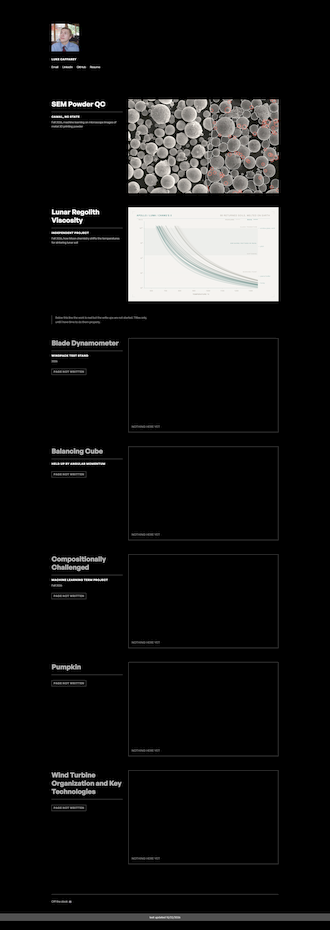
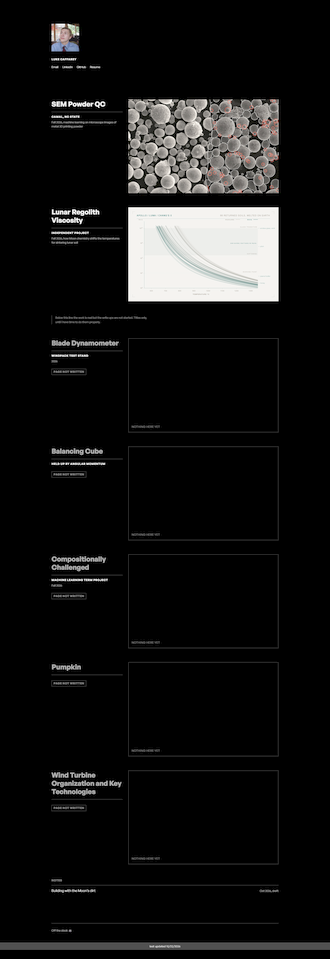
Add notes: a map of a lunar regolith factory, must haves vs nice to haves
Dig, sort, check, heat, shape, inspect, plus what cuts across all of them. Each
stage says what sets its requirements, and one checkbox strips the list to the
must haves, so it ships no script. Grounded in the two ML projects and the
Stapperfend cooling discussion; marked as draft notes. Listed under a new Notes
heading at the bottom of the index, and linked from the viscosity page.

diff --git a/notes/lunar-manufacturing.html b/notes/lunar-manufacturing.html
@@ -1,0 +1,231 @@
+<!DOCTYPE html>
+<html lang="en">
+<head>
+<meta charset="UTF-8">
+<meta name="viewport" content="width=device-width, initial-scale=1">
+<title>Building with the Moon&#8217;s dirt | Luke Caffarey</title>
+<meta name="description" content="A map of what a lunar regolith manufacturing system needs, what it can skip, and where my powder and viscosity projects plug in. Draft notes.">
+<meta name="theme-color" content="#000000">
+<link rel="icon" href="/assets/img/avatar-icon.png">
+
+<meta property="og:title" content="Building with the Moon's dirt, by Luke Caffarey">
+<meta property="og:description" content="Dig, sort, check, heat, shape, inspect. What a lunar regolith factory must have, what is nice to have, and what sets each requirement.">
+<meta property="og:type" content="article">
+<meta property="og:url" content="https://lacaffar.github.io/notes/lunar-manufacturing.html">
+<meta property="og:image" content="https://lacaffar.github.io/assets/covers/lunar-viscosity.jpg">
+<meta name="twitter:card" content="summary_large_image">
+<link rel="canonical" href="https://lacaffar.github.io/notes/lunar-manufacturing.html">
+
+<link rel="preconnect" href="https://api.fontshare.com">
+<link rel="stylesheet" href="https://api.fontshare.com/v2/css?f%5B%5D=general-sans@400,500,600,700&display=swap">
+<link rel="stylesheet" href="/assets/css/site.css">
+</head>
+<body>
+
+<nav class="back"><div class="col"><a href="/">&#8592; Index</a></div></nav>
+
+<header class="case-head">
+  <div class="col">
+    <p><span class="wip">Draft notes</span></p>
+    <h1>Building with the Moon&#8217;s dirt</h1>
+    <dl class="case-facts">
+      <div><dt>Type</dt><dd>Notes</dd></div>
+      <div><dt>Written</dt><dd>Oct 2026</dd></div>
+      <div><dt>Builds on</dt><dd>SEM Powder QC, Lunar Regolith Viscosity</dd></div>
+    </dl>
+  </div>
+</header>
+
+<main class="case-body">
+  <div class="col">
+
+    <section>
+      <p>Launching mass to the Moon is the expensive part, so the case for building with lunar
+      soil is simple: the feedstock is already there. The hard part is everything between a
+      scoop of dirt and a part you would trust to hold something up.</p>
+      <p>This is my map of that chain. I came at it from two ends this semester: how you check
+      powder quality from images (<a href="/projects/sem-powder.html">SEM Powder QC</a>), and how
+      the Moon&#8217;s chemistry moves the temperatures you process regolith at
+      (<a href="/projects/lunar-viscosity.html">Lunar Regolith Viscosity</a>). The rest is me
+      thinking out loud, so treat it as notes, not a design.</p>
+    </section>
+
+    <section>
+      <h2>What is different up there</h2>
+      <div class="fix">
+        <div class="fix-item">
+          <div class="fix-when">Vacuum</div>
+          <p>No air means no convection. A hot part loses heat only by radiation, which is fast
+          when it is glowing and slow once it cools. Anything printed from melt cools on a very
+          different curve than it would on Earth.</p>
+        </div>
+        <div class="fix-item">
+          <div class="fix-when">No oxygen</div>
+          <p>Iron stays in its reduced Fe<sup>2+</sup> form. Most melt data comes from simulants
+          melted in air, where about 60% of the iron is oxidized. Near the glass transition that
+          moves processing temperatures by 5 to 32 K for iron rich soils.</p>
+        </div>
+        <div class="fix-item">
+          <div class="fix-when">Dust</div>
+          <p>Regolith is fine, sharp and abrasive. It gets into seals, bearings and anything that
+          slides, and there is no rain to wash it off.</p>
+        </div>
+        <div class="fix-item">
+          <div class="fix-when">Long days</div>
+          <p>Away from the poles, daylight and darkness each last about two Earth weeks. Power and
+          thermal design have to survive both.</p>
+        </div>
+        <div class="fix-item">
+          <div class="fix-when">Distance</div>
+          <p>A signal takes about 2.6 seconds to get to the Moon and back. You can steer from Earth,
+          slowly, but nobody is walking over to clear a jam.</p>
+        </div>
+        <div class="fix-item">
+          <div class="fix-when">Site matters</div>
+          <p>Mare soils average about 17% FeO, highland soils about 6%. Across 66 returned soils
+          that is well over 100 degrees difference in the temperature to reach the same
+          viscosity. Where you land decides how hot you have to run.</p>
+        </div>
+      </div>
+    </section>
+
+    <section>
+      <h2>The chain, stage by stage</h2>
+      <p>Six stages. For each one, what sets the requirement, what a first factory
+      <strong>must</strong> have, and what is <strong>nice to have</strong> once the first one
+      works. Flip the switch to see the bare minimum.</p>
+
+      <input class="lean-input" type="checkbox" id="lean">
+      <label class="lean" for="lean">
+        <span class="lean-off">Showing everything.</span>
+        <span class="lean-on">Showing must haves only.</span>
+        <span class="lean-act">Strip it to the minimum</span>
+        <span class="lean-act2">Show everything again</span>
+      </label>
+      <p class="lean-key"><span class="k-must">must have</span><span class="k-nice">nice to have</span></p>
+
+      <div class="stages">
+
+        <div class="stage">
+          <h3><span class="step-n">1</span>Dig</h3>
+          <p class="stage-why">Set by: dust, power, and knowing which soil you are standing on.</p>
+          <ul class="need">
+            <li class="must">An excavator built for abrasive dust: sealed joints, few sliding surfaces.</li>
+            <li class="must">A site whose soil chemistry is already mapped. Mare or highland changes every stage after this one.</li>
+            <li class="nice">Digging and hauling on its own through the two week night.</li>
+            <li class="nice">Selecting one soil type on purpose instead of taking whatever is under the scoop.</li>
+          </ul>
+        </div>
+
+        <div class="stage">
+          <h3><span class="step-n">2</span>Sort</h3>
+          <p class="stage-why">Set by: what particle sizes the heating and forming steps can handle.</p>
+          <ul class="need">
+            <li class="must">Sieving to a size band, and throwing out rocks.</li>
+            <li class="nice">Magnetic separation, to pull out grains rich in metallic iron.</li>
+            <li class="nice">Blending minerals on purpose to land the mix in a target viscosity window. This is the stretch goal on my viscosity project, not started yet.</li>
+          </ul>
+        </div>
+
+        <div class="stage">
+          <h3><span class="step-n">3</span>Check the feedstock</h3>
+          <p class="stage-why">Set by: the heating step only works inside a window, and the window depends on what went in.</p>
+          <ul class="need">
+            <li class="must">Size and shape of every batch, from a camera and a model rather than a lab. This is the SEM Powder QC idea moved to the Moon: images in, size distribution and shape out.</li>
+            <li class="must">Bulk chemistry, iron above all, since it sets processing temperatures.</li>
+            <li class="nice">Batch to batch drift with error bars, the same before and after comparison the SEM tool reports.</li>
+            <li class="nice">Measuring the iron oxidation state directly instead of assuming it.</li>
+          </ul>
+        </div>
+
+        <div class="stage">
+          <h3><span class="step-n">4</span>Heat</h3>
+          <p class="stage-why">Set by: viscosity. Sintering lives between softening and the glass transition; melt processing lives above the working point.</p>
+          <ul class="need">
+            <li class="must">Process windows calibrated to lunar iron, not air melted simulants. Fully molten, the difference is small. Near the glass transition, where sintering happens, it is 5 to 32 K for iron rich soils, and no current model predicts it reliably.</li>
+            <li class="must">Temperature control tighter than the window. For a mare soil near the glass transition, every 10 K is roughly half an order of magnitude in viscosity.</li>
+            <li class="must">The lowest peak temperature that works. Less energy, a wider choice of furnace materials, and less wear on the hot zone.</li>
+            <li class="nice">Sharing heat with oxygen extraction, since molten regolith electrolysis needs the same melt anyway.</li>
+            <li class="nice">Concentrated sunlight as the heat source during the day.</li>
+          </ul>
+        </div>
+
+        <div class="stage">
+          <h3><span class="step-n">5</span>Shape</h3>
+          <p class="stage-why">Set by: how fast the material stops flowing once it is placed.</p>
+          <ul class="need">
+            <li class="must">A forming method matched to the regime. For melt extrusion, the melt goes down near the working point (10<sup>3</sup> Pa&#183;s) and has to reach softening (10<sup>6.6</sup>), where it stops sagging under its own weight, before the next layer.</li>
+            <li class="must">A choice between soils that suits the process. Mare melts need less heat; highland melts freeze faster in vacuum. Neither is free.</li>
+            <li class="nice">Building large parts in place, so nothing has to be carried after it is made.</li>
+          </ul>
+        </div>
+
+        <div class="stage">
+          <h3><span class="step-n">6</span>Inspect</h3>
+          <p class="stage-why">Set by: nobody is going to destructively test every part.</p>
+          <ul class="need">
+            <li class="must">A way to call a part good without a lab: dimensions from a scan, density from weight and volume.</li>
+            <li class="nice">Watching for defects while the part is being made, the way CAMAL is working toward for electron beam printing on Earth.</li>
+            <li class="nice">Melting rejected parts back into feedstock.</li>
+          </ul>
+        </div>
+
+        <div class="stage">
+          <h3><span class="step-n">+</span>Across every stage</h3>
+          <p class="stage-why">Set by: the Moon.</p>
+          <ul class="need">
+            <li class="must">Power that survives the night.</li>
+            <li class="must">Recovering from a jam or a fault without a person there.</li>
+            <li class="must">Keeping dust out of every moving part.</li>
+            <li class="nice">Parts a robot can swap.</li>
+          </ul>
+        </div>
+
+      </div>
+    </section>
+
+    <section>
+      <h2>Where my two projects plug in</h2>
+      <p><strong>Stage 3, check the feedstock.</strong> The SEM tool already does the thing a
+      lunar line needs: it turns images into size, shape and a verdict on whether a batch
+      changed, with error bars, without a sizing instrument. Its lesson that transfers: trust the
+      change between batches more than the absolute number.</p>
+      <p><strong>Stage 4, heat, and the choice of site.</strong> The viscosity work says the
+      Earth data is fine for melting and not fine for sintering, and that the gap is a missing
+      measurement, not a missing model. Anyone sintering mare soil should want near-glass
+      transition viscosity data on reduced iron before trusting a temperature.</p>
+    </section>
+
+    <section>
+      <h2>What I do not know yet</h2>
+      <ul>
+        <li>How much the atmosphere inside a sealed furnace on the Moon would differ from the
+        vacuum outside it, and so which iron state the material actually sees.</li>
+        <li>How partly crystalline powder sinters compared with the glass my model assumes.</li>
+        <li>What a kilogram of sintered block costs in energy, and whether that, not viscosity,
+        is what decides between sintering and melting.</li>
+        <li>Which of the must haves above someone has already solved and I have not read yet.
+        Probably several.</li>
+      </ul>
+    </section>
+
+    <nav class="case-nav">
+      <a href="/projects/lunar-viscosity.html">&#8592; Lunar Regolith Viscosity</a>
+      <a href="/">Index &#8594;</a>
+    </nav>
+
+  </div>
+</main>
+
+<footer class="foot">
+  <div class="col">
+    <hr class="rule">
+    <div class="foot-inner">
+      <span>&copy; 2026 Luke Caffarey</span>
+      <span><a href="mailto:lacaffar@ncsu.edu">lacaffar@ncsu.edu</a></span>
+    </div>
+  </div>
+</footer>
+
+</body>
+</html>

diff --git a/assets/css/site.css b/assets/css/site.css
@@ -698,7 +698,7 @@ body.split { overflow: hidden; }
    the box is the share of the page one screen covers, and the run is what is
    left over, both measured off the real panels at a typical window height. */
 
-#portfolio .mm-view { height: 34px; --travel: 91px; }
+#portfolio .mm-view { height: 34px; --travel: 95px; }
 #narrative .mm-view { height: 29px; --travel: 85px; }
 
 @keyframes mm-run {
@@ -1545,3 +1545,59 @@ body.split { overflow: hidden; }
   .case-body .melt-read .r-n { font-size: 24px; line-height: 28px; }
   .dots-row i { width: 9px; height: 9px; margin-left: 3px; }
 }
+
+/* --- notes ------------------------------------------------------------------
+   short written pieces, listed under the projects on the index. The lunar
+   manufacturing map has a must have / nice to have switch, done with one
+   hidden checkbox like the index panels, so it ships no script. */
+
+.notes { margin: 10px 0 0; }
+.notes .label { color: var(--faint); margin-bottom: 12px; }
+.notes a {
+  display: flex; justify-content: space-between; gap: 16px; align-items: baseline;
+  padding: 12px 0; border-top: 1px solid var(--rule);
+}
+.notes a span:first-child { font-size: 15px; color: var(--text); }
+.notes a:hover span:first-child { text-decoration: underline; text-underline-offset: 3px; text-decoration-thickness: 1px; }
+
+.lean-input { position: absolute; opacity: 0; pointer-events: none; }
+
+.lean {
+  display: flex; flex-wrap: wrap; align-items: baseline; gap: 6px 18px;
+  cursor: pointer; margin: 6px 0 8px;
+}
+.lean > span:first-child, .lean > span:nth-child(2) { font-size: 15px; color: var(--text); }
+.lean-act, .lean-act2 {
+  font-size: 12px; font-weight: 700; letter-spacing: 0.06em; text-transform: uppercase;
+  border-bottom: 1px solid var(--rule); padding-bottom: 3px;
+}
+.lean:hover .lean-act, .lean:hover .lean-act2 { border-bottom-color: var(--text); }
+.lean-input:focus-visible + .lean { outline: 1px solid var(--text); outline-offset: 4px; }
+.lean-on, .lean-act2 { display: none; }
+.lean-input:checked + .lean .lean-off, .lean-input:checked + .lean .lean-act { display: none; }
+.lean-input:checked + .lean .lean-on, .lean-input:checked + .lean .lean-act2 { display: inline; }
+
+.lean-key { display: flex; gap: 22px; margin: 0 0 18px; }
+.case-body .lean-key span { font-size: 12px; color: var(--faint); }
+
+.stages { display: grid; gap: 4px; max-width: 700px; }
+.case-body .stage h3 .step-n { display: inline-block; min-width: 26px; color: var(--faint); font-weight: 600; }
+.stage { padding: 14px 0 6px; border-top: 1px solid var(--rule); }
+.case-body .stage h3 { margin: 0 0 6px; }
+.case-body .stage-why { font-size: 12px; color: var(--faint); margin: 0 0 10px; }
+
+.case-body .need { list-style: none; padding: 0; margin: 0 0 8px; }
+.case-body .need li { position: relative; padding-left: 22px; margin-bottom: 8px; }
+.case-body .need li.must { color: var(--text); }
+
+.need li::before, .lean-key span::before {
+  content: ""; position: absolute; left: 2px; top: 0.62em;
+  width: 9px; height: 9px; border-radius: 50%; border: 1px solid var(--text);
+}
+.lean-key span { position: relative; padding-left: 18px; }
+.lean-key span::before { left: 0; top: 0.35em; }
+.need li.must::before, .lean-key .k-must::before { background: var(--text); }
+.need li.nice::before, .lean-key .k-nice::before { border-color: var(--faint); }
+
+.lean-input:checked ~ .stages .nice { display: none; }
+.lean-input:checked ~ .lean-key .k-nice { display: none; }

diff --git a/index.html b/index.html
@@ -49,7 +49,7 @@
   </label>
 
   <div class="minimap" aria-hidden="true">
-    <img class="mm-shot" src="/assets/minimap/portfolio.png" width="330" height="930" alt="">
+    <img class="mm-shot" src="/assets/minimap/portfolio.png" width="330" height="959" alt="">
     <span class="mm-view"></span>
   </div>
 </div>
@@ -149,6 +149,11 @@
         <p><span class="wip">Page not written</span></p>
       </div>
       <span class="hold" aria-hidden="true"><span>Nothing here yet</span></span>
+    </div>
+
+    <div class="notes">
+      <p class="label">Notes</p>
+      <a href="/notes/lunar-manufacturing.html"><span>Building with the Moon&#8217;s dirt</span><span class="meta">Oct 2026, draft</span></a>
     </div>
 
   </div>

diff --git a/projects/lunar-viscosity.html b/projects/lunar-viscosity.html
@@ -354,7 +354,7 @@
 
     <nav class="case-nav">
       <a href="/projects/sem-powder.html">&#8592; SEM Powder QC</a>
-      <a href="/">Index &#8594;</a>
+      <a href="/notes/lunar-manufacturing.html">Notes: building with the Moon&#8217;s dirt &#8594;</a>
     </nav>
 
   </div>
